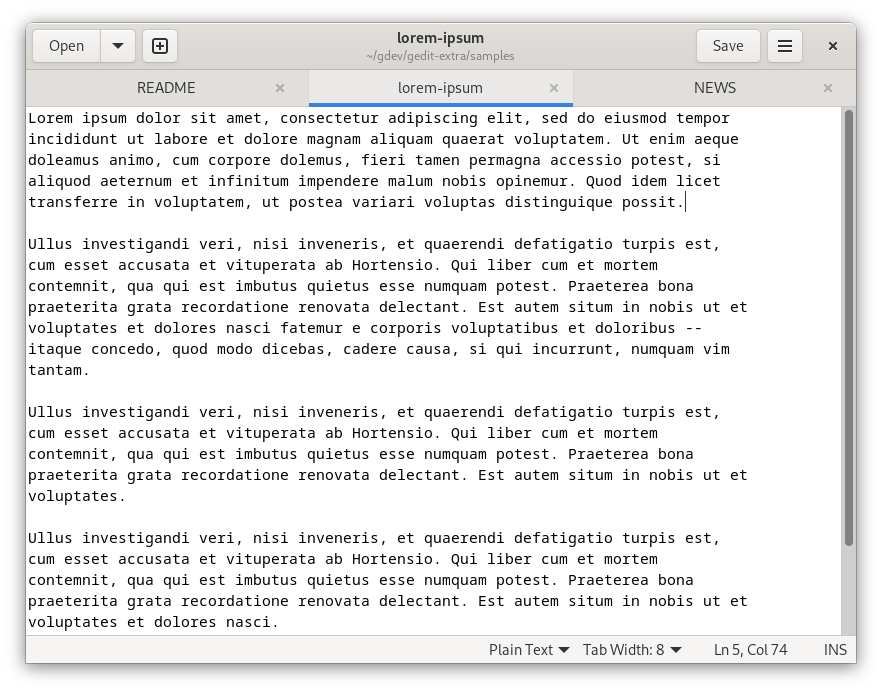
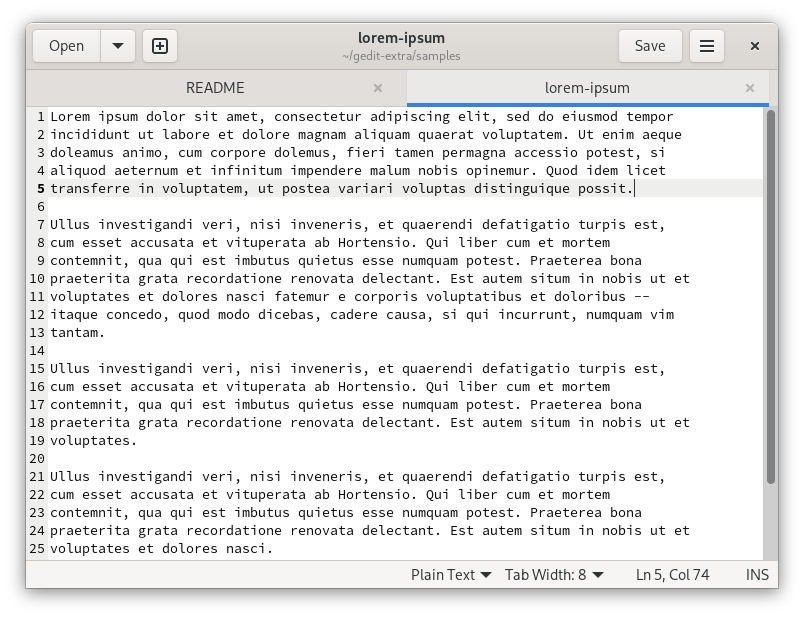
Run update-primary-website.sh

Changed region(s): [[0.0311, 0.0308, 0.995, 0.9854]]

diff --git a/docs/apps/gedit/screenshots.html b/docs/apps/gedit/screenshots.html
@@ -13,75 +13,79 @@
 </header>
 
 <main>
-<h2>Screenshots</h2>
+<h2>A tour of gedit</h2>
 
 <p>
   <a href="index.html">&lt;-- gedit's main page</a>
 </p>
 
-<p><br /></p>
-<p>gedit's main window, showing its tabbed multi document interface:</p>
+<h3>The basics</h3>
+
 <p>
   <a href="images/screenshot-gedit-tabbed-view.png" target="_blank">
     <img src="images/thumbnail-screenshot-gedit-tabbed-view.png" alt="gedit screenshot" />
   </a>
 </p>
+<p>
+  This is the main window of gedit demonstrating the following features:
+</p>
+<ul>
+  <li>Files are opened in <strong>tabs</strong>;</li>
+  <li>You can display <strong>line numbers</strong> in the margin;</li>
+  <li>You can <strong>highlight the current line</strong>.</li>
+</ul>
 
 <p><br /></p>
-<p>Colorful syntax highlighting:</p>
 <p>
   <a href="images/screenshot-gedit-syntax-highlighting.png" target="_blank">
     <img src="images/thumbnail-screenshot-gedit-syntax-highlighting.png" alt="gedit screenshot" />
   </a>
 </p>
+<p>Colorful syntax highlighting.</p>
 
 <p><br /></p>
-<p>UTF-8 support:</p>
 <p>
   <a href="images/screenshot-gedit-utf8-support.png" target="_blank">
     <img src="images/thumbnail-screenshot-gedit-utf8-support.png" alt="gedit screenshot" />
   </a>
 </p>
+<p>UTF-8 support.</p>
 
 <p><br /></p>
-<p>Word completion plugin in action:</p>
+<h3>Some plugins in action</h3>
+
 <p>
   <a href="images/screenshot-gedit-word-completion.png" target="_blank">
     <img src="images/thumbnail-screenshot-gedit-word-completion.png" alt="gedit screenshot" />
   </a>
 </p>
+<p>The word completion plugin.</p>
 
 <p><br /></p>
-<p>Side panel featuring an integrated file browser:</p>
 <p>
   <a href="images/screenshot-gedit-side-panel-file-browser.png" target="_blank">
     <img src="images/thumbnail-screenshot-gedit-side-panel-file-browser.png" alt="gedit screenshot" />
   </a>
 </p>
+<p>Side panel featuring an integrated file browser.</p>
 
 <p><br /></p>
-<p>Line numbering and bracket matching:</p>
-<p>
-  <a href="images/screenshot-gedit-line-numbering.png" target="_blank">
-    <img src="images/thumbnail-screenshot-gedit-line-numbering.png" alt="gedit screenshot" />
-  </a>
-</p>
+<h3>Windows and macOS support</h3>
 
-<p><br /></p>
-<p>gedit running natively on Windows 8:</p>
 <p>
   <a href="images/screenshot-gedit-on-windows-8.png" target="_blank">
     <img src="images/thumbnail-screenshot-gedit-on-windows-8.png" alt="gedit screenshot" />
   </a>
 </p>
+<p>gedit running natively on Windows.</p>
 
 <p><br /></p>
-<p>gedit running natively on Mac OS X:</p>
 <p>
   <a href="images/screenshot-gedit-on-os-x.png" target="_blank">
     <img src="images/thumbnail-screenshot-gedit-on-os-x.png" alt="gedit screenshot" />
   </a>
 </p>
+<p>gedit running natively on macOS.</p>
 
 </main>
 </body>
